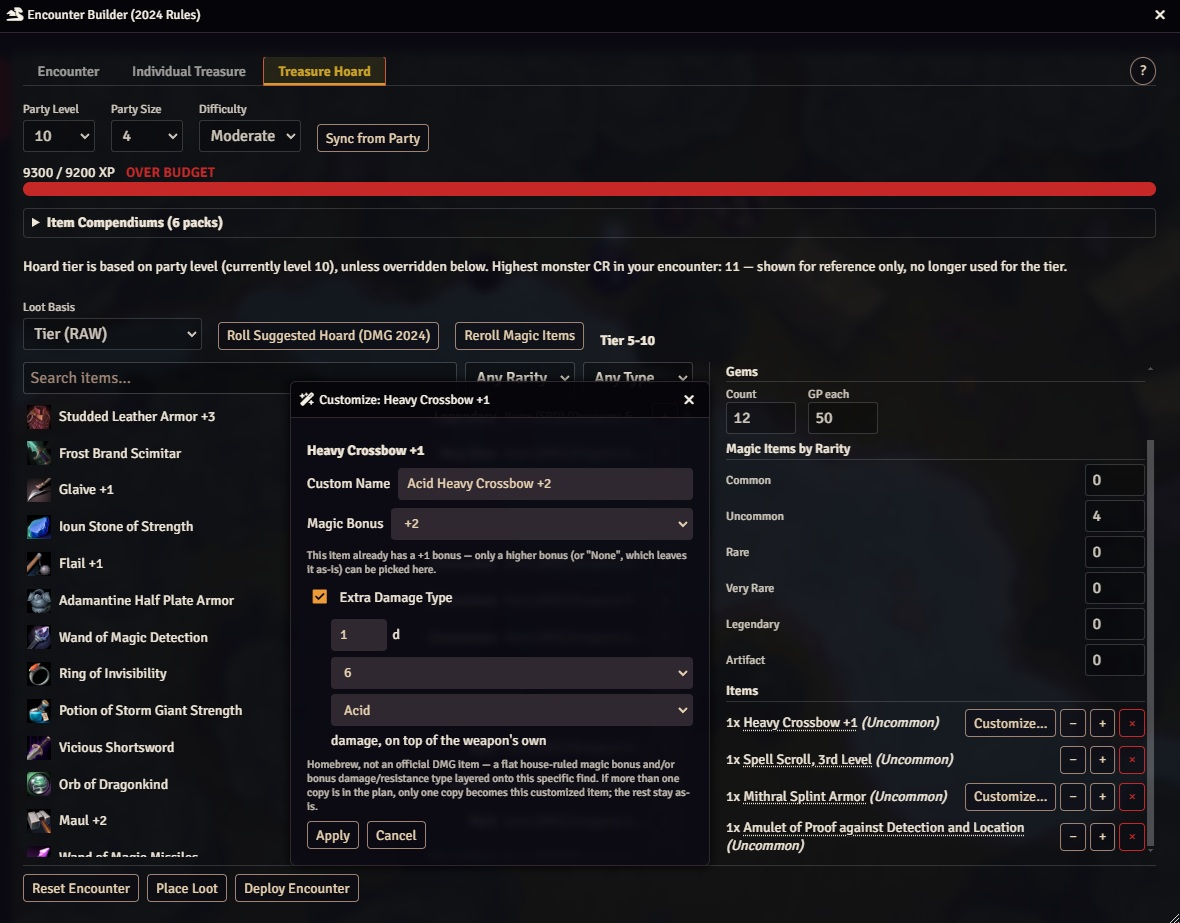
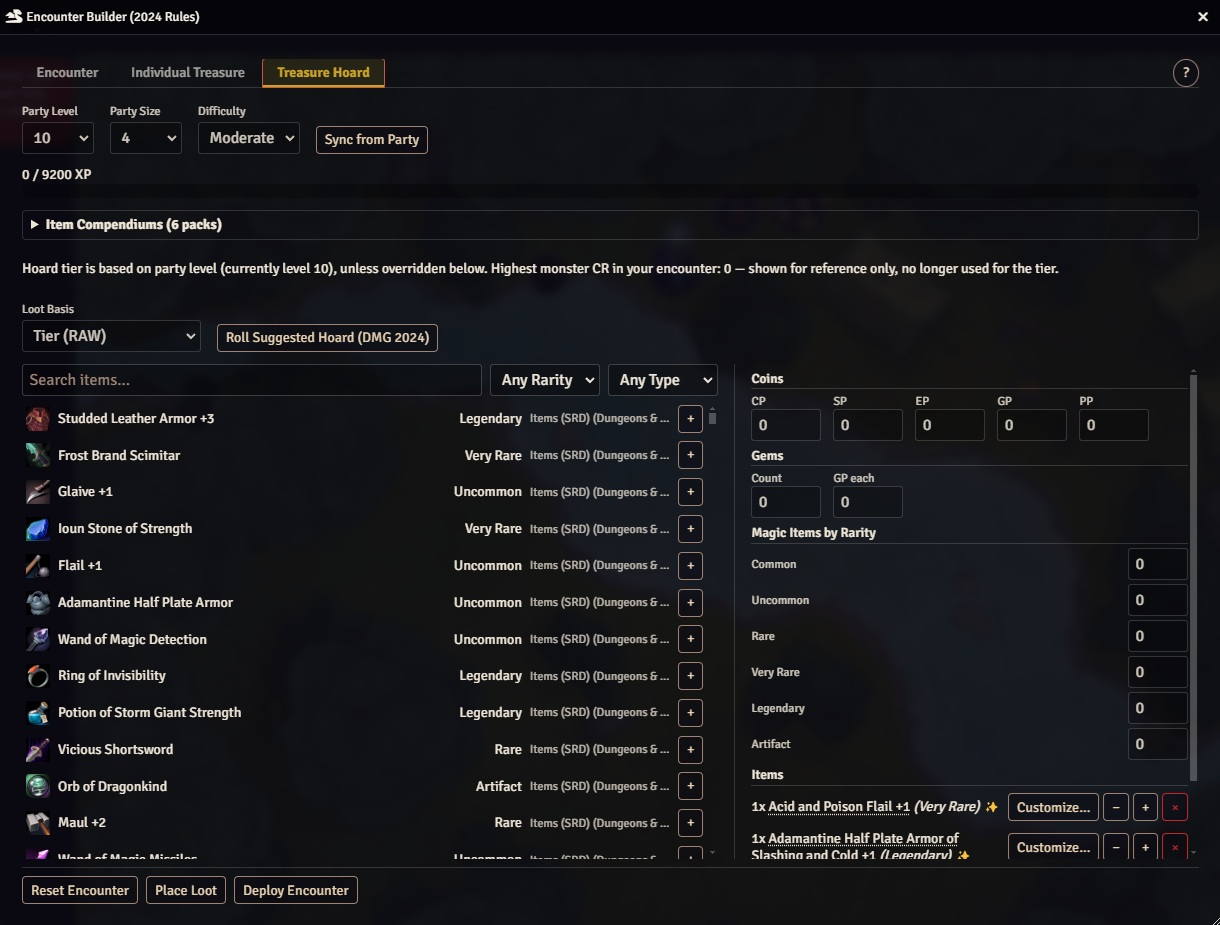
Bump version to 0.3.9, refresh Treasure Hoard screenshot
The old screenshot had the Customize dialog open over the tab, now
redundant with the dedicated Item Customize screenshot from v0.3.8 —
replaced with a clean view of the tab showing two already-customized
items (with the sparkle marker). Re-pins all screenshot links.

diff --git a/README.md b/README.md
@@ -11,7 +11,7 @@ with a fully editable preview before creating anything.
 
 **Encounter tab**
 
-<img width="1107" height="865" alt="Encounter Builder" src="https://cdn.jsdelivr.net/gh/ElmiMage/encounter-builder-2024@v0.3.8/screenshots/encounter-tab.jpg" />
+<img width="1107" height="865" alt="Encounter Builder" src="https://cdn.jsdelivr.net/gh/ElmiMage/encounter-builder-2024@v0.3.9/screenshots/encounter-tab.jpg" />
 
 - XP budget per 2024 DMG rules (Low/Moderate/High, no group multipliers)
 - Browse monsters from ANY loaded Actor compendium (SRD + your own homebrew)
@@ -60,7 +60,7 @@ with a fully editable preview before creating anything.
 
 **Individual Treasure tab**
 
-<img width="1102" height="864" alt="Encounter Builder Loot" src="https://cdn.jsdelivr.net/gh/ElmiMage/encounter-builder-2024@v0.3.8/screenshots/loot-tab.jpg" />
+<img width="1102" height="864" alt="Encounter Builder Loot" src="https://cdn.jsdelivr.net/gh/ElmiMage/encounter-builder-2024@v0.3.9/screenshots/loot-tab.jpg" />
 
 - The 2024 DMG's smaller, separate "Individual Treasure" table: the
   incidental coin a single non-hoarding monster carries, as opposed to a
@@ -77,7 +77,7 @@ with a fully editable preview before creating anything.
 
 **Treasure Hoard tab**
 
-<img width="1180" height="923" alt="Encounter Builder Loot Hoard" src="https://cdn.jsdelivr.net/gh/ElmiMage/encounter-builder-2024@v0.3.8/screenshots/treasure-hoard-tab.jpg" />
+<img width="1220" height="925" alt="Encounter Builder Loot Hoard" src="https://cdn.jsdelivr.net/gh/ElmiMage/encounter-builder-2024@v0.3.9/screenshots/treasure-hoard-tab.jpg" />
 
 - The 2024 DMG's detailed Treasure Hoard tables — coins, gems/art, and
   resolved magic items with real names, not a blind roll
@@ -107,7 +107,7 @@ with a fully editable preview before creating anything.
 
 **Item Customize dialog**
 
-<img width="421" height="605" alt="Item Customize dialog" src="https://cdn.jsdelivr.net/gh/ElmiMage/encounter-builder-2024@v0.3.8/screenshots/item-customize-dialog.jpg" />
+<img width="421" height="605" alt="Item Customize dialog" src="https://cdn.jsdelivr.net/gh/ElmiMage/encounter-builder-2024@v0.3.9/screenshots/item-customize-dialog.jpg" />
 
 Available from any weapon or armor entry (rolled or manually added) in
 either the Individual Treasure or Treasure Hoard tab — turns a generic
